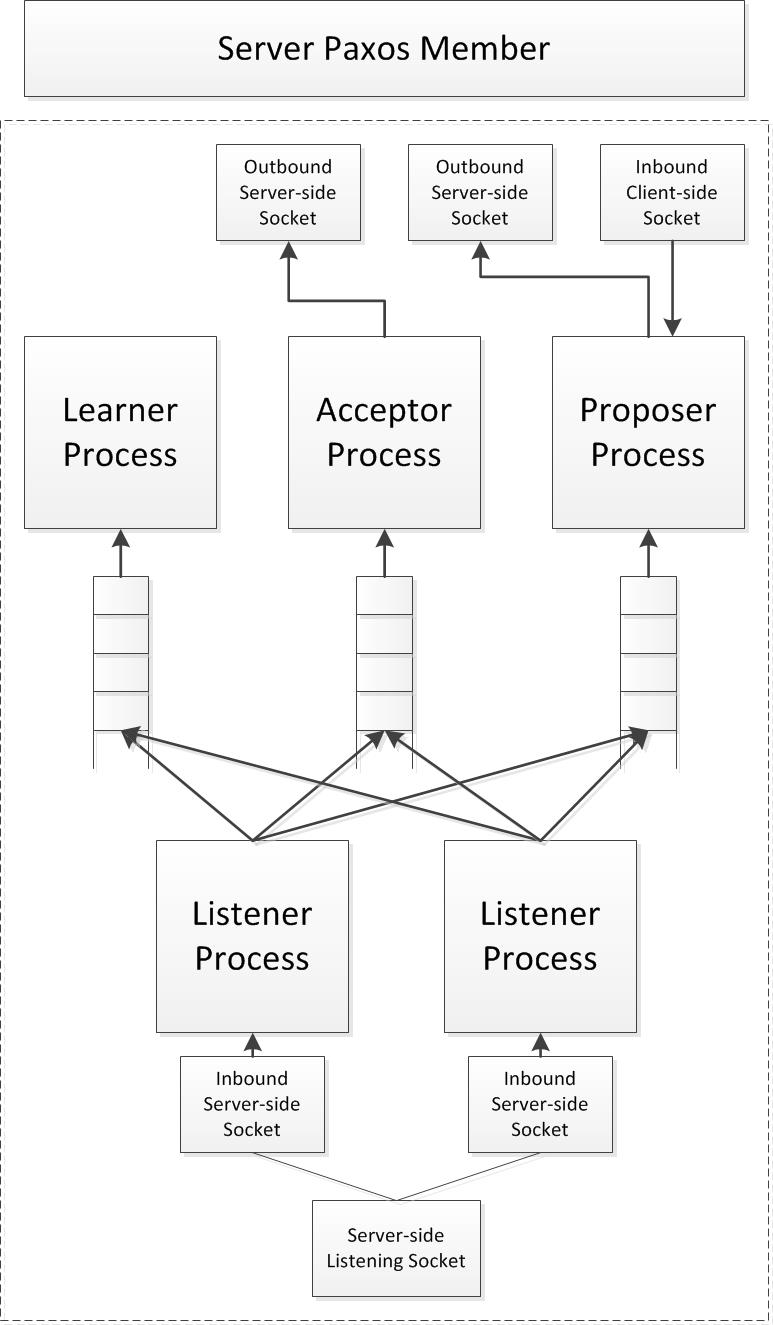
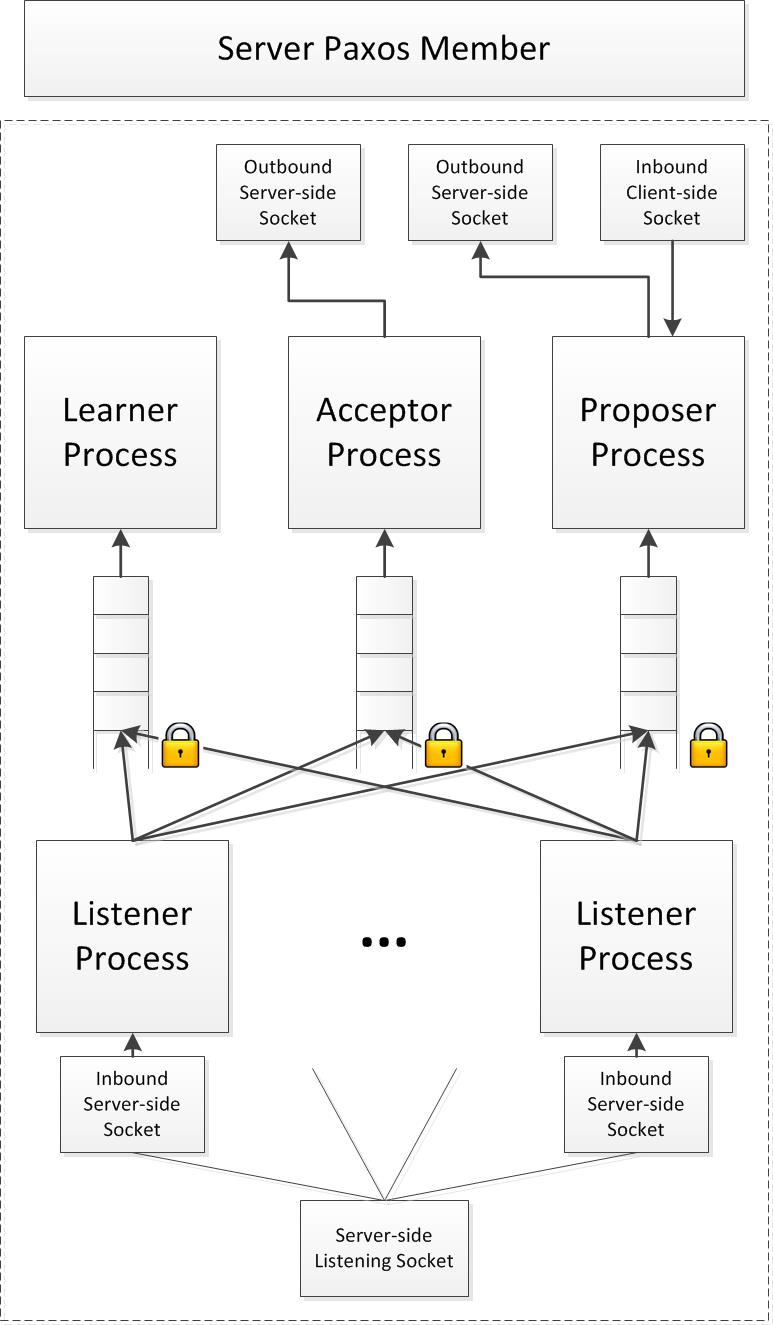
Some more doc on the server and forgot to add an image.

diff --git a/problemset2/src/server.py b/problemset2/src/server.py
@@ -54,6 +54,9 @@ class server:
         self.acceptor_queue_lock = Lock()
         self.learner_queue_lock = Lock()
 
+        self.instance_resolutions = [] # set of known resolved instances
+        self.lock_set = []             # the set of (lock, client_ids) that are locked
+
         # Fire up a listener process
         listening_process = Process(target=self.initialize_listener, args=(host, port))
         listening_process.start()
@@ -217,7 +220,11 @@ class server:
 
     def initialize_proposer(self, host, port, server_number, total_servers, server_list):
 
-        # create a request queue
+        ######################################################################
+        # Data structure initializations
+        ######################################################################
+
+        # create a request queue for pending commands
         request_queue = Queue()
 
         # proposer port must be even
@@ -267,6 +274,12 @@ class server:
         proposal_instance = 0       # the instance this node is proposing for
         instance_proposal_map = dict()   # a mapping of instance -> current proposal number
 
+        ######################################################################
+        # Open connection to the client
+        # - accepts a client connection
+        # - processes the client requests until client is done
+        ######################################################################
+
         # Begin processing messages from the message queue
         while (done == 0):
 
@@ -274,6 +287,15 @@ class server:
             (client_connection, address) = client_socket.accept()
 
             client_done = 0
+
+            ######################################################################
+            # While the client still has messages it wants to issue
+            # - check the request queue for commands to propose first
+            # - get the messages from the client connection
+            # - check the lock set - if the lock you want is held, put the request
+            #   on the message request queue and spin in a WAIT state until you get
+            #   a lock release
+            ######################################################################
 
             # client processing loop - service as many message from the client as needed until socket closed
             while (client_done == 0):
@@ -294,6 +316,9 @@ class server:
                 cmd = c_msg.value
                 assert(isinstance(cmd, command.command))
                 assert(c_msg.msg_type == message.MESSAGE_TYPE.CLIENT)
+
+                # TODO: check if the message is a lock message
+                # TODO: if you get a request for a held lock, block in a WAIT state
 
                 # TODO: check if someone else has the lock, if they do go to a waiting state where you check the learner queue for instance resolutions
                 state = READY
